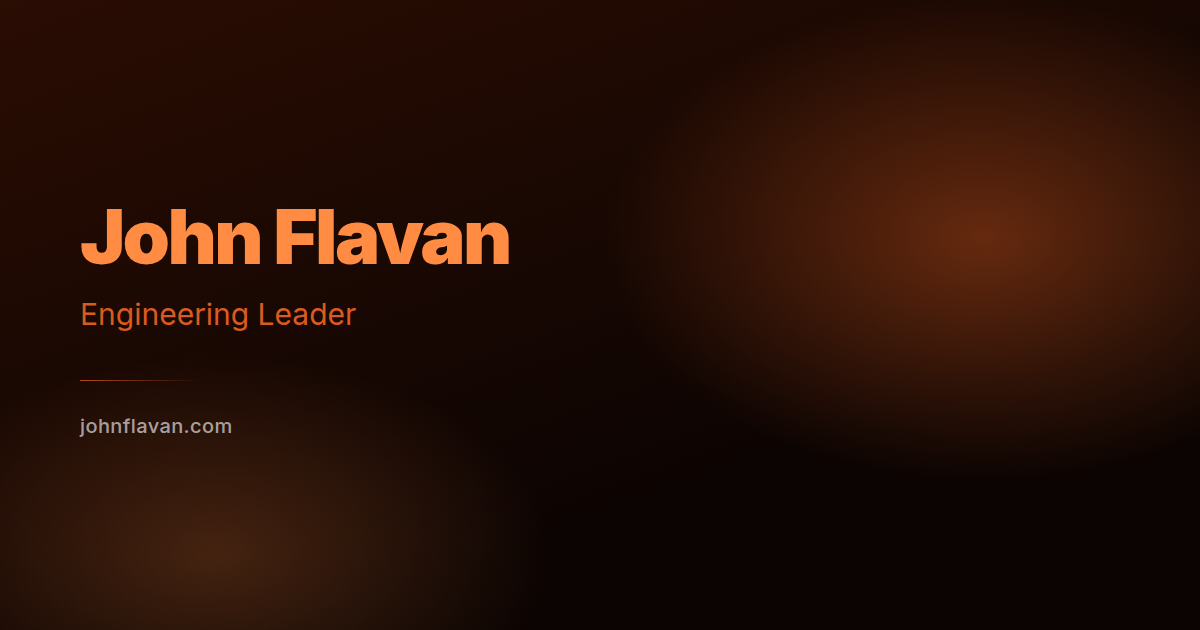
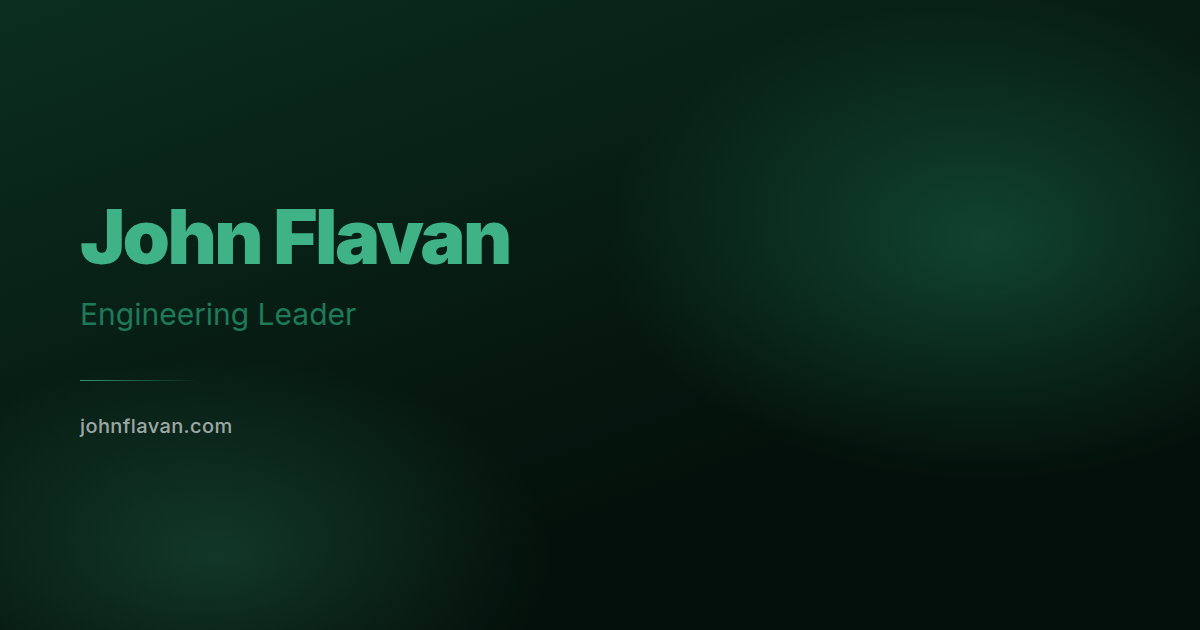
Swap the amber palette for deep forest green
Same set of touch points as the previous palette change: CSS tokens, the
static fallback gradient, the default aurora shader stops, the browser
theme colour, console note colours, favicon and Open Graph image. The teal
aurora easter-egg entry is dropped since it sits too close to the new
default, and the amber one returns in its place.

Claude-Session: https://claude.ai/code/session_0159tnSZy3d4gu2n7cGQDsgx

diff --git a/index.html b/index.html
@@ -42,7 +42,7 @@
 <meta name="robots" content="index, follow">
 
 <!-- Theme -->
-<meta name="theme-color" content="#0c0402">
+<meta name="theme-color" content="#04100b">
 <meta name="color-scheme" content="dark">
 
 <!-- Fonts (self-hosted) & styles -->
@@ -550,11 +550,11 @@
   const THEMES = {
     default: {
       label: 'default',
-      cssVars: { '--accent-deep': '#7a2000', '--accent-mid': '#d95b20', '--accent-bright': '#ff8c42', '--accent-light': '#ffc07a', '--bg-base': '#0c0402', '--glow-color-r': '217', '--glow-color-g': '91', '--glow-color-b': '32' },
-      shaderStops: [[0.03,0.005,0.0],[0.10,0.02,0.0],[0.22,0.05,0.01],[0.38,0.10,0.03],[0.55,0.22,0.06],[0.65,0.32,0.10],[0.72,0.42,0.16]],
-      voidColor: [0.02, 0.005, 0.0],
-      starTint: [1.0, 0.8, 0.5],
-      console: ['Curious? Check out my GitHub.', '#ffc07a', '#d95b20']
+      cssVars: { '--accent-deep': '#0b3d2c', '--accent-mid': '#1e7a58', '--accent-bright': '#3fb287', '--accent-light': '#a9e5c8', '--bg-base': '#04100b', '--glow-color-r': '30', '--glow-color-g': '122', '--glow-color-b': '88' },
+      shaderStops: [[0.01,0.035,0.022],[0.02,0.08,0.05],[0.04,0.17,0.11],[0.06,0.25,0.16],[0.10,0.36,0.24],[0.16,0.46,0.32],[0.24,0.56,0.40]],
+      voidColor: [0.005, 0.02, 0.012],
+      starTint: [0.6, 1.0, 0.78],
+      console: ['Curious? Check out my GitHub.', '#a9e5c8', '#3fb287']
     },
     cosmic: {
       label: 'cosmic',
@@ -564,13 +564,13 @@
       starTint: [0.7, 0.85, 1.0],
       console: ['You found the cosmos. \u2726', '#a0c4ff', '#6fa8dc']
     },
-    aurora: {
-      label: 'aurora',
-      cssVars: { '--accent-deep': '#0a4a40', '--accent-mid': '#1aaa88', '--accent-bright': '#40d9b0', '--accent-light': '#88f0d8', '--bg-base': '#020a08', '--glow-color-r': '26', '--glow-color-g': '170', '--glow-color-b': '136' },
-      shaderStops: [[0.0,0.015,0.02],[0.0,0.04,0.06],[0.02,0.10,0.12],[0.03,0.18,0.16],[0.10,0.38,0.32],[0.18,0.48,0.40],[0.28,0.55,0.48]],
-      voidColor: [0.0, 0.008, 0.01],
-      starTint: [0.5, 1.0, 0.8],
-      console: ['The aurora dances. \u2728', '#40d9b0', '#1aaa88']
+    ember: {
+      label: 'ember',
+      cssVars: { '--accent-deep': '#7a2000', '--accent-mid': '#d95b20', '--accent-bright': '#ff8c42', '--accent-light': '#ffc07a', '--bg-base': '#0c0402', '--glow-color-r': '217', '--glow-color-g': '91', '--glow-color-b': '32' },
+      shaderStops: [[0.03,0.005,0.0],[0.10,0.02,0.0],[0.22,0.05,0.01],[0.38,0.10,0.03],[0.55,0.22,0.06],[0.65,0.32,0.10],[0.72,0.42,0.16]],
+      voidColor: [0.02, 0.005, 0.0],
+      starTint: [1.0, 0.8, 0.5],
+      console: ['The embers glow. \u2737', '#ff8c42', '#d95b20']
     },
     solar: {
       label: 'solar',
@@ -628,7 +628,7 @@
     if (themeMeta) themeMeta.setAttribute('content', vars['--bg-base']);
   }
 
-  // Always start on the default (amber) theme
+  // Always start on the default (forest green) theme
   try {
     localStorage.removeItem('cosmicMode');
     localStorage.removeItem('colorTheme');
@@ -1373,8 +1373,8 @@
   // ===== CONSOLE EASTER EGG =====
   console.log(
     '%cCurious? Check out my GitHub.\n%chttps://github.com/jflavan',
-    'color:#ffc07a;font-size:14px;font-weight:bold;',
-    'color:#d95b20;font-size:12px;'
+    'color:#a9e5c8;font-size:14px;font-weight:bold;',
+    'color:#3fb287;font-size:12px;'
   );
 
   // ===== HERO LINE HOLD INTERACTION =====

diff --git a/site.css b/site.css
@@ -6,14 +6,14 @@
 
 /* ===== TOKENS ===== */
 :root {
-  --accent-deep: #7a2000;
-  --accent-mid: #d95b20;
-  --accent-bright: #ff8c42;
-  --accent-light: #ffc07a;
-  --bg-base: #0c0402;
-  --glow-color-r: 217;
-  --glow-color-g: 91;
-  --glow-color-b: 32;
+  --accent-deep: #0b3d2c;
+  --accent-mid: #1e7a58;
+  --accent-bright: #3fb287;
+  --accent-light: #a9e5c8;
+  --bg-base: #04100b;
+  --glow-color-r: 30;
+  --glow-color-g: 122;
+  --glow-color-b: 88;
   --glow: var(--glow-color-r), var(--glow-color-g), var(--glow-color-b);
 
   --text: #fff;
@@ -102,7 +102,7 @@ body.themed::after { opacity: 0.015; }
   background:
     radial-gradient(ellipse 70% 60% at 30% 25%, rgba(var(--glow), 0.55), transparent 65%),
     radial-gradient(ellipse 60% 50% at 75% 65%, rgba(var(--glow), 0.35), transparent 65%),
-    linear-gradient(160deg, #3a1204 0%, var(--bg-base) 70%);
+    linear-gradient(160deg, #0b2e20 0%, var(--bg-base) 70%);
 }
 
 .gradient-bg canvas {
